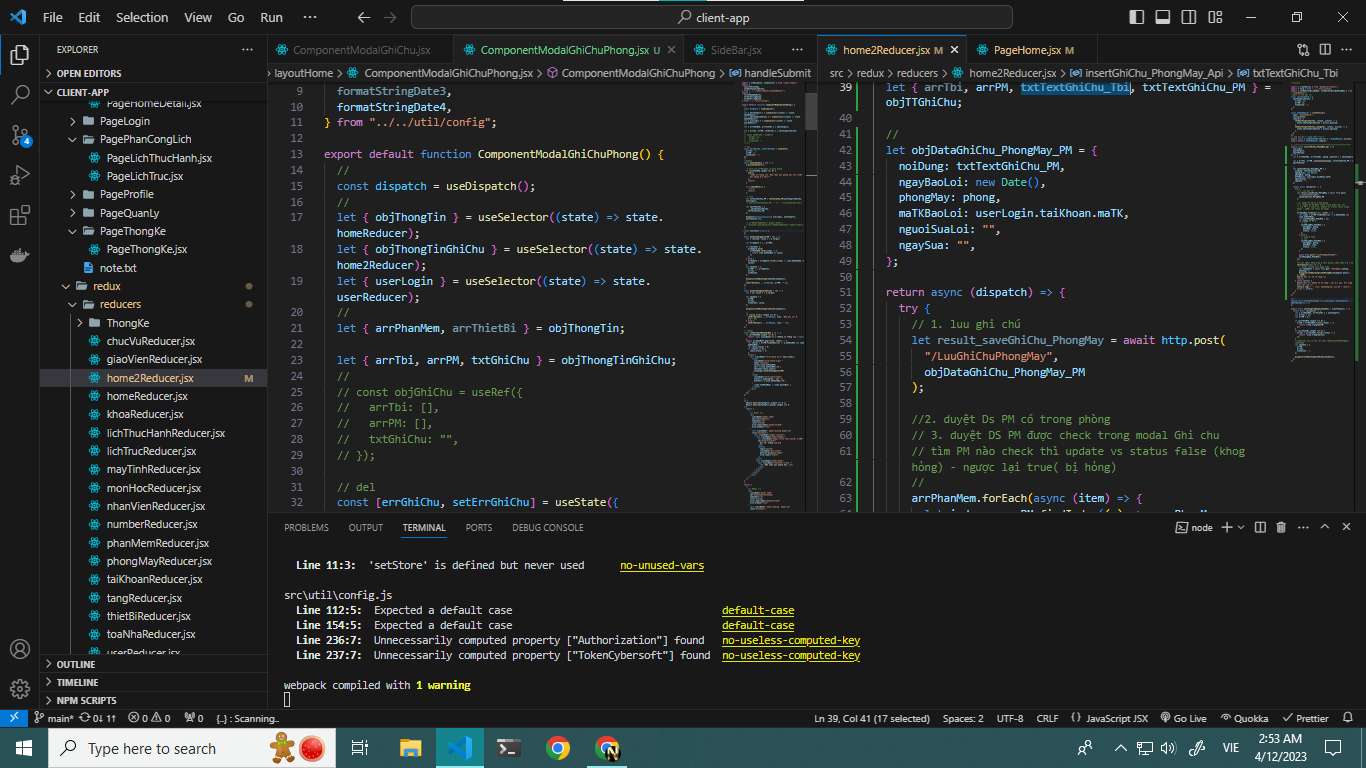
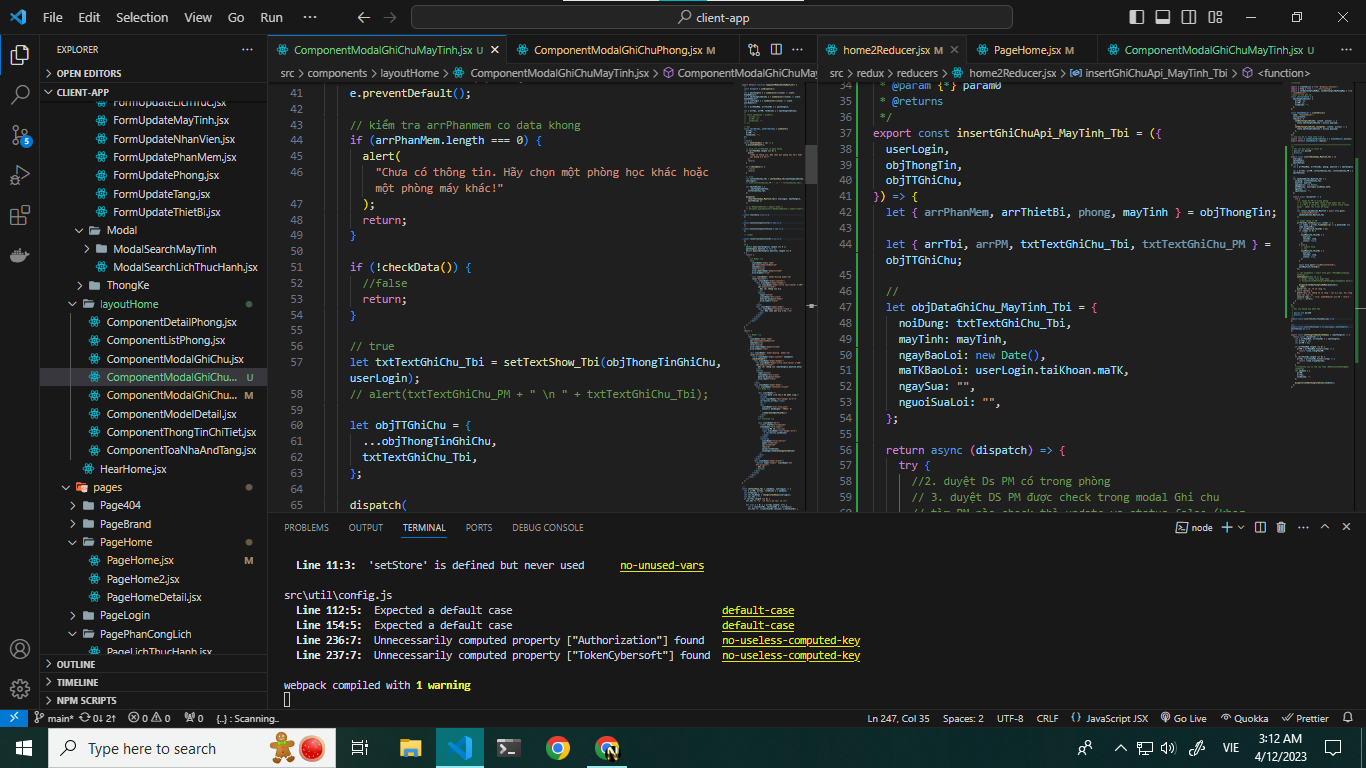
Page Home: update GUi GhiChu Phong- save api ghichu

diff --git a/src/components/layoutHome/ComponentModalGhiChuMayTinh.jsx b/src/components/layoutHome/ComponentModalGhiChuMayTinh.jsx
@@ -2,6 +2,7 @@ import React, { useEffect, useRef, useState } from "react";
 import { useDispatch, useSelector } from "react-redux";
 import {
   insertGhiChuApi,
+  insertGhiChuApi_MayTinh_Tbi,
   setObjThongTinGhiChu,
 } from "../../redux/reducers/home2Reducer";
 import {
@@ -10,7 +11,7 @@ import {
   formatStringDate4,
 } from "../../util/config";
 
-export default function ComponentModalGhiChuPhong() {
+export default function ComponentModalGhiChuMayTinh() {
   //
   const dispatch = useDispatch();
   //
@@ -18,7 +19,7 @@ export default function ComponentModalGhiChuPhong() {
   let { objThongTinGhiChu } = useSelector((state) => state.home2Reducer);
   let { userLogin } = useSelector((state) => state.userReducer);
   //
-  let { arrPhanMem, arrThietBi, mayTinh } = objThongTin;
+  let { arrPhanMem, arrThietBi } = objThongTin;
 
   let { arrTbi, arrPM, txtGhiChu } = objThongTinGhiChu;
   //
@@ -53,15 +54,17 @@ export default function ComponentModalGhiChuPhong() {
     }
 
     // true
-    let txtTextGhiChu_PM = setTextShow_PM(objThongTinGhiChu, userLogin);
+    let txtTextGhiChu_Tbi = setTextShow_Tbi(objThongTinGhiChu, userLogin);
     // alert(txtTextGhiChu_PM + " \n " + txtTextGhiChu_Tbi);
 
     let objTTGhiChu = {
       ...objThongTinGhiChu,
-      txtTextGhiChu_PM,
+      txtTextGhiChu_Tbi,
     };
 
-    dispatch(insertGhiChuApi({ userLogin, objThongTin, objTTGhiChu }));
+    dispatch(
+      insertGhiChuApi_MayTinh_Tbi({ userLogin, objThongTin, objTTGhiChu })
+    );
 
     // $('#modalIdGhiChu').modal('hide');
     // document.querySelector("#modalIdGhiChu").modal("hide");
@@ -102,32 +105,34 @@ export default function ComponentModalGhiChuPhong() {
 
     return result;
   };
+
   //
-  const handleChangSelectPM = (e) => {
+  const handleChangSelectTbi = (e) => {
     let { checked, value } = e.target;
 
-    let arrUpdate = [...arrPM];
+    let arrUpdate = [...arrTbi];
 
     if (checked) {
       arrUpdate.push(
-        arrPhanMem.find((item) => {
-          return item.maPhanMem == value;
+        arrThietBi.find((item) => {
+          return item.maThietBi == value;
         })
       );
     } else {
-      arrUpdate = arrUpdate.filter((item) => item.maPhanMem != value);
+      arrUpdate = arrUpdate.filter((item) => item.maThietBi != value);
     }
     let objData = {
-      arrPM: [...arrUpdate],
-      arrTbi,
+      arrPM,
+      arrTbi: [...arrUpdate],
       txtGhiChu,
     };
 
     dispatch(setObjThongTinGhiChu(objData));
+
     //
-    setErrGhiChu({ ...errGhiChu, arrPM: "" });
+
+    setErrGhiChu({ ...errGhiChu, arrTbi: "" });
   };
-  //
   //
   const handleChangeTextGhiChu = (e) => {
     let { id, value } = e.target;
@@ -149,49 +154,51 @@ export default function ComponentModalGhiChuPhong() {
   };
 
   // render
-  const renderCheckBoxPhanMem = () => {
-    if (arrPhanMem.length === 0) {
-      return <span className="mx-2">Không có thông tin.</span>;
-    }
-    return arrPhanMem?.map((item, index) => {
-      let check1 = arrPM.findIndex((e) => e.maPhanMem === item.maPhanMem);
-      let check_status = 0;
-      if (check1 >= 0) {
-        check_status = 1;
-      }
-      return (
-        <div className="form-check ms-2" key={index}>
-          <input
-            className="form-check-input "
-            type="checkbox"
-            value={item.maPhanMem}
-            id={`${item.maPhanMem}_PM`}
-            checked={check_status}
-            onChange={handleChangSelectPM}
-          />
-          <label
-            className="form-check-label"
-            style={{ paddingTop: "2px" }}
-            htmlFor={`${item.maPhanMem}_PM`}
-          >
-            {item.tenPhanMem} ( {item.phienBan} )
-          </label>
-        </div>
-      );
-    });
-  };
 
+  const renderCheckBoxThietBi = () => {
+    if (arrThietBi?.length !== 0 && arrThietBi != null) {
+      return arrThietBi?.map((item, index) => {
+        let check1 = arrTbi.findIndex((e) => e.maThietBi === item.maThietBi);
+        let check_status = 0;
+        if (check1 >= 0) {
+          check_status = 1;
+        }
+        return (
+          <div className="form-check ms-2" key={index}>
+            <input
+              className="form-check-input "
+              type="checkbox"
+              value={item.maThietBi}
+              id={`${item.maThietBi}_Tbi`}
+              checked={check_status}
+              onChange={handleChangSelectTbi}
+            />
+            <label
+              className="form-check-label"
+              style={{ paddingTop: "2px" }}
+              htmlFor={`${item.maThietBi}_Tbi`}
+            >
+              <strong>{item.loaiThietBi.tenLoai}</strong> {item.tenThietBi}
+            </label>
+          </div>
+        );
+      });
+    }
+
+    return <span className="mx-2">Không có thông tin.</span>;
+  };
   //
   if (
     Object.keys(objThongTin).length === 0 ||
-    Object.keys(objThongTin.phong).length === 0
+    objThongTin.mayTinh == null ||
+    Object.keys(objThongTin.mayTinh).length === 0
   ) {
     return (
       <>
         {/* Modal */}
         <div
           className="modal fade"
-          id="modalIdGhiChuPhong"
+          id="modalIdGhiChuMayTinh"
           tabIndex={-1}
           role="dialog"
           aria-labelledby="modalTitleId"
@@ -201,7 +208,7 @@ export default function ComponentModalGhiChuPhong() {
             <div className="modal-content">
               <div className="modal-header">
                 <h3 className="modal-title text-center w-100" id="modalTitleId">
-                  Ghi chú thông tin máy 
+                  Ghi chú thông tin máy
                 </h3>
                 <button
                   type="button"
@@ -212,7 +219,7 @@ export default function ComponentModalGhiChuPhong() {
               </div>
               <div className="modal-body">
                 <div className="container-fluid ">
-                  <h4> Hãy chọn một phòng học.</h4>
+                  <h4> Hãy chọn một máy tính.</h4>
                 </div>
               </div>
             </div>
@@ -227,7 +234,7 @@ export default function ComponentModalGhiChuPhong() {
       {/* Modal */}
       <div
         className="modal fade"
-        id="modalIdGhiChuPhong"
+        id="modalIdGhiChuMayTinh"
         tabIndex={-1}
         role="dialog"
         aria-labelledby="modalTitleId"
@@ -237,7 +244,7 @@ export default function ComponentModalGhiChuPhong() {
           <form className="modal-content" onSubmit={handleSubmit}>
             <div className="modal-header">
               <h3 className="modal-title text-center w-100" id="modalTitleId">
-                Ghi chú thông tin {objThongTin.phong.tenPhong}
+                Ghi chú thông tin {objThongTin.mayTinh.moTa}
               </h3>
               <button
                 type="button"
@@ -251,20 +258,19 @@ export default function ComponentModalGhiChuPhong() {
                 {/* Body */}
 
                 <div className="">
-                  <strong>Danh sách ứng dụng phần mềm:</strong>
-                  <span className="text-danger mx-2">* {errGhiChu.arrPM}</span>
+                  <strong>Danh sách thiết bị phần cứng:</strong>
+                  <span className="text-danger mx-2">* {errGhiChu.arrTbi}</span>
                   <br />
                   <div
                     className="over_flow_auto"
                     style={{ maxHeight: "200px" }}
                   >
-                    {renderCheckBoxPhanMem()}
+                    {renderCheckBoxThietBi()}
                   </div>
                 </div>
-
                 {/* TextArea */}
 
-                <div className="mb-3 mt-2">
+                <div className="mb-3">
                   <label htmlFor="txtGhiChu" className="form-label">
                     <strong>Mô tả:</strong>
                     <span className="text-danger mx-2">
@@ -294,24 +300,23 @@ export default function ComponentModalGhiChuPhong() {
   );
 }
 
-
 ///
-const setTextShow_PM = (objData, userLogin) => {
+const setTextShow_Tbi = (objData, userLogin) => {
   let { arrPM, arrTbi, txtGhiChu } = objData;
   let strGhiChu = "";
   let str_TaiKhoan = thongtinTaiKhoan(userLogin);
-  let str_PM = "";
-  if (arrPM.length !== 0) {
-    str_PM += "\n \b  +\t Phần mềm lỗi: \n \t";
+  let str_Tbi = "";
+  if (arrTbi.length !== 0) {
+    str_Tbi += "\n  +\t Thiết bị lỗi: \n \t";
 
-    for (let i = 0; i < arrPM.length; i++) {
-      let { tenPhanMem, phienBan } = arrPM[i];
-      str_PM += `${tenPhanMem} ( ${phienBan} )`;
+    for (let i = 0; i < arrTbi.length; i++) {
+      let { loaiThietBi, tenThietBi } = arrTbi[i];
+      str_Tbi += `${loaiThietBi.tenLoai} ${tenThietBi}`;
 
-      if (i < arrPM.length - 1) {
-        str_PM += "\n \t";
+      if (i < arrTbi.length - 1) {
+        str_Tbi += "\n \t";
       } else {
-        str_PM += "";
+        str_Tbi += "";
       }
     }
   }
@@ -321,7 +326,7 @@ const setTextShow_PM = (objData, userLogin) => {
     str_Mota += "\n  +\t Mô tả: " + txtGhiChu;
   }
 
-  strGhiChu = `- ${formatStringDate4()} - ${str_TaiKhoan}: ${str_PM} ${str_Mota}`;
+  strGhiChu = `- ${formatStringDate4()} - ${str_TaiKhoan}: ${str_Tbi} ${str_Mota}`;
   return strGhiChu;
 };
 const thongtinTaiKhoan = (userLogin) => {

diff --git a/src/redux/reducers/home2Reducer.jsx b/src/redux/reducers/home2Reducer.jsx
@@ -29,6 +29,85 @@ export const { setObjThongTinGhiChu } = home2Reducer.actions;
 export default home2Reducer.reducer;
 
 // +++++++++++++++++++++++++++++++++++++++++++++++++++++++++
+/**
+ * Chi chu may tinh va thiet bị
+ * @param {*} param0
+ * @returns
+ */
+export const insertGhiChuApi_MayTinh_Tbi = ({
+  userLogin,
+  objThongTin,
+  objTTGhiChu,
+}) => {
+  let { arrPhanMem, arrThietBi, phong, mayTinh } = objThongTin;
+
+  let { arrTbi, arrPM, txtTextGhiChu_Tbi, txtTextGhiChu_PM } = objTTGhiChu;
+
+  //
+  let objDataGhiChu_MayTinh_Tbi = {
+    noiDung: txtTextGhiChu_Tbi,
+    mayTinh: mayTinh,
+    ngayBaoLoi: new Date(),
+    maTKBaoLoi: userLogin.taiKhoan.maTK,
+    ngaySua: "",
+    nguoiSuaLoi: "",
+  };
+
+  return async (dispatch) => {
+    try {
+      //2. duyệt Ds PM có trong phòng
+      // 3. duyệt DS PM được check trong modal Ghi chu
+      // tìm PM nào check thì update vs status false (khog hỏng) - ngược lại true( bị hỏng)
+      //
+      let result_saveGhiChu_MayTinh = await http.post(
+        "/LuuGhiChuMayTinh",
+        objDataGhiChu_MayTinh_Tbi
+      );
+
+      // duyệt tường tụ PM
+      arrThietBi.forEach(async (item) => {
+        let index = arrTbi.findIndex((e) => e.maThietBi === item.maThietBi);
+        let saveMayTinh_ThietBi = {};
+        if (index >= 0) {
+          // luu
+          saveMayTinh_ThietBi = {
+            mayTinh,
+            thietBi: item,
+            status: false,
+          };
+        } else {
+          // update hong
+          // luu
+          saveMayTinh_ThietBi = {
+            mayTinh,
+            thietBi: item,
+            status: true,
+          };
+        }
+
+        await http.post("/LuuMayTinhThietBi", saveMayTinh_ThietBi);
+      });
+
+      // let objUpdate = await http.get(`/PhongMay/${phong.maPhong}`);
+      setTimeout(async () => {
+        // giups reload laij page home
+        // dispatch(setObjThongTinByPhongMay(objUpdate.data));
+
+        dispatch(setObjThongTinByMay(mayTinh));
+      }, 1000);
+      alert("Ghi chú thành công.");
+    } catch (error) {
+      alert("Ghi chú không thành công - lỗi kết nối. Vui lòng quay lại sau.");
+      console.log("🚀 ~ file: home2Reducer.jsx:39 ~ return ~ error:", error);
+    }
+  };
+};
+/**
+ * Ghi chu phong may phan mem
+ *
+ * @param {*} param0
+ * @returns
+ */
 export const insertGhiChu_PhongMay_Api = ({
   userLogin,
   objThongTin,

diff --git a/src/pages/PageHome/PageHome.jsx b/src/pages/PageHome/PageHome.jsx
@@ -14,6 +14,7 @@ import ComponentModelDetail from "../../components/layoutHome/ComponentModelDeta
 import ComponentModalGhiChu from "../../components/layoutHome/ComponentModalGhiChu";
 import { setThongTinObjGhiChuRedux } from "../../redux/reducers/home2Reducer";
 import ComponentModalGhiChuPhong from "../../components/layoutHome/ComponentModalGhiChuPhong";
+import ComponentModalGhiChuMayTinh from "../../components/layoutHome/ComponentModalGhiChuMayTinh";
 
 export default function PageHome() {
   const dispatch = useDispatch();
@@ -57,6 +58,7 @@ export default function PageHome() {
       {/* modal Ghi chu */}
       <ComponentModalGhiChu />
       <ComponentModalGhiChuPhong />
+      <ComponentModalGhiChuMayTinh />
 
       {/*1. col Toa nha -- Tang */}
       <div className="col-2  flex-column d-flex justify-content-between px-1">
@@ -116,7 +118,7 @@ export default function PageHome() {
 
             <button
               data-bs-toggle="modal"
-              data-bs-target="#modalIdGhiChu"
+              data-bs-target="#modalIdGhiChuMayTinh"
               type="button"
               onClick={() => {
                 // let { arrPhanMem, arrThietBi } = objThongTin;
